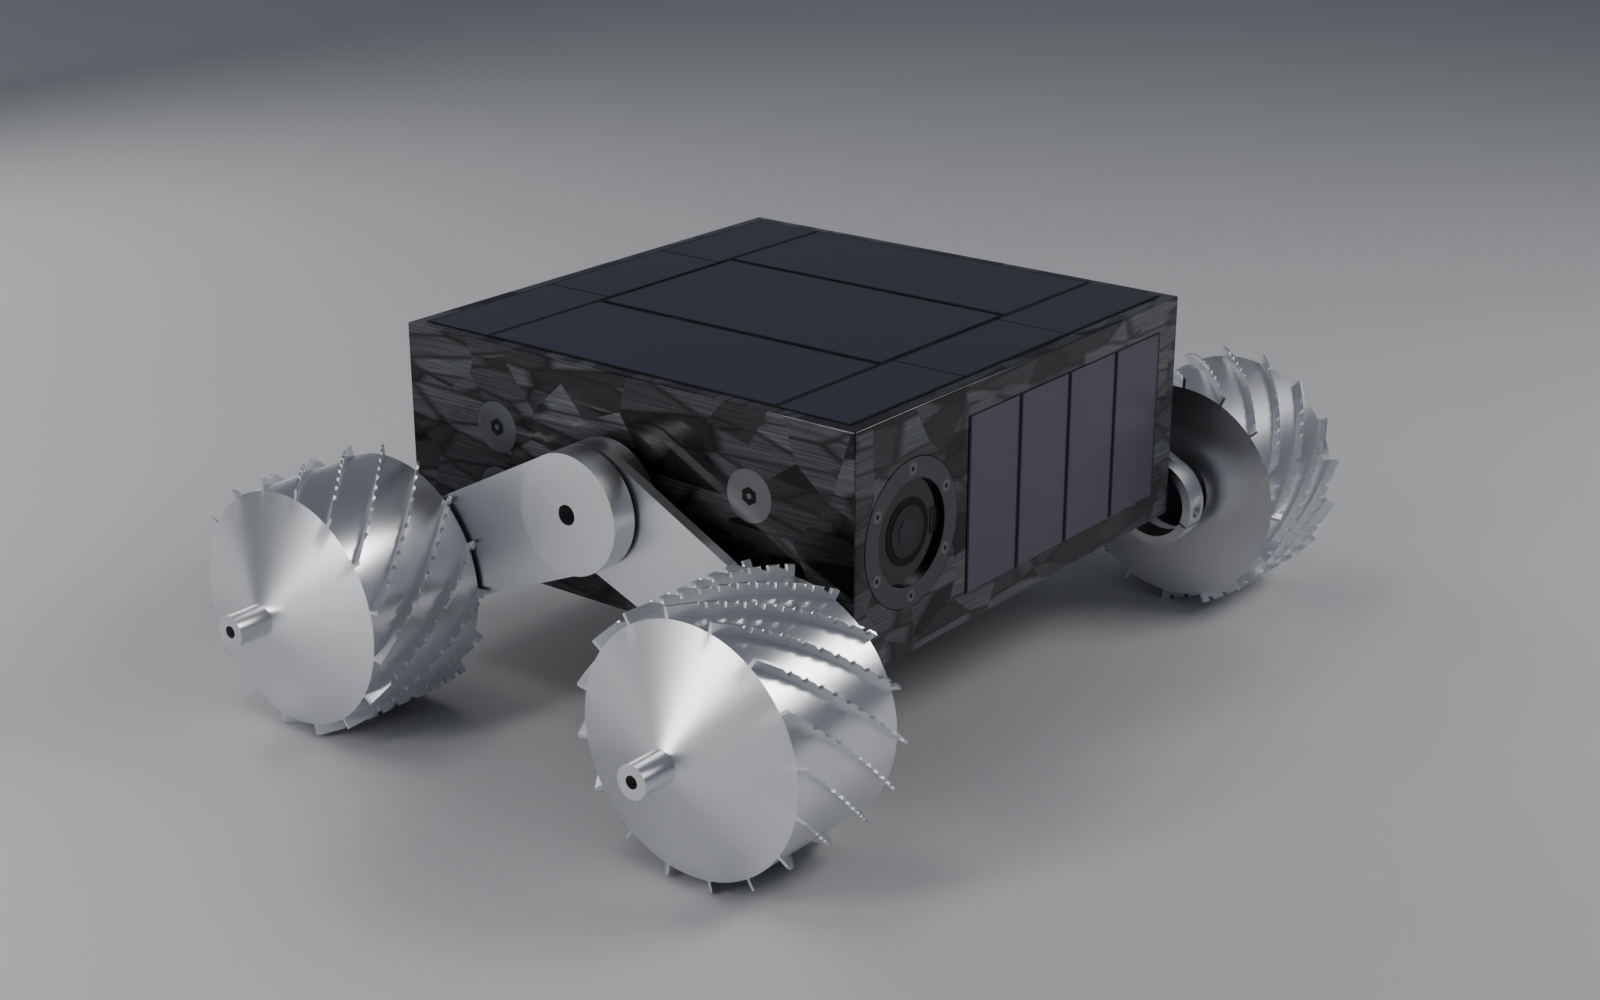
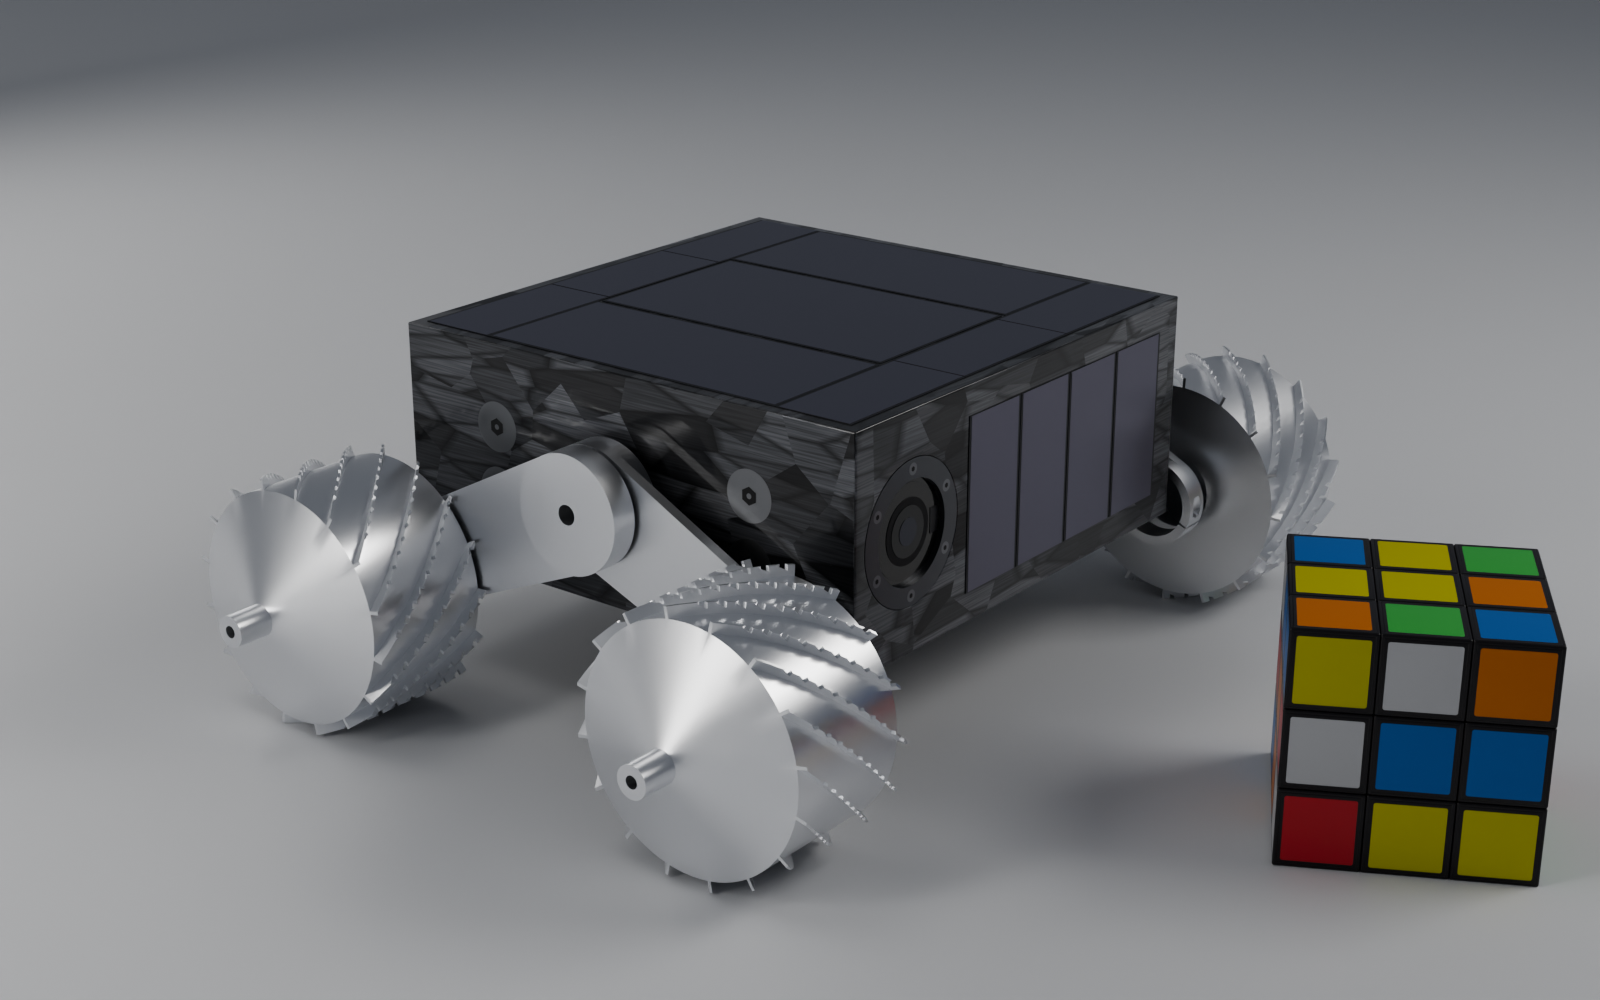
Renders R1, R2 (automatic, METAL ['Apple M2 (GPU - 10 cores)'])

Changed region(s): [[0.625, 0.527, 1.0, 0.899], [0.5, 0.682, 0.5625, 0.775]]

diff --git a/docs/render-jobs.md b/docs/render-jobs.md
@@ -28,8 +28,8 @@ When a change to the CAD, the layout, the materials or the camera alters what a 
 
 | Id | Image (`docs/images/`) | Settings | Expected | Why (last change) | Status | Notes |
 |---|---|---|---|---|---|---|
-| R1 | `rover-hero.png` | `VIEW=hero FIDUCIAL=cube QX=-5 QY=170`, 1600x1000, 96 samples | camera end three-quarter view: carbon body, near-black cells, aluminium struts and wheels, the 26 mm window with the lens visible; the CC BY Rubik's cube model (BeyondDigital, 57 mm) on the ground at the right, fully in frame, clear of the wheels | a scale fiducial: the CC BY Rubik's cube model added next to the rover (owner 2026-11-14; a quarter and then a home-made cube were tried first); was: the ranging sensor moved to the ring's inboard slot on the camera axis (z = 30, long axis vertical, 10.5 mm toward the body centre) and the LEDs to 45, 90, 135, 225, 270, 315 degrees (owner 2026-11-14: symmetry about z = 30); the sensor patch is now beside the lens, none below it; was: the ranging sensor moved from the ring's top slot to its bottom slot (2026-11-14, map work: the sim's pit check needs the 51.6 mm mount); the sensor patch is now BELOW the lens; was: the eight lid cam heads are now on the hub faces (2026-11-14); was: the window bezel is now gunmetal by default, the chosen finish (owner, 2026-11-14): the main shot: re-render so the hero shows the gunmetal bezel; was: a bare aluminium window bezel flush with the carbon face and six flush countersunk M1.6 screws, the sapphire recessed behind it (2026-11-14, owner's taste; the window view should show a flat ring with six small hex-socket heads and a visible depth to the window), six mid-power LEDs at 10 mm radius, sensor package behind clear glass; was: window redesigned 2026-11-14 (LED ring, lens, sensor; no beamsplitter); LEDs no longer drawn when off | pending (cube model in place) | automatic (render_pending.py): METAL ['Apple M2 (GPU - 10 cores)'], 44 s, 96 samples; pixel check ok (mean 127) | AttributeError: 'Scene' object has no attribute 'vs' | Traceback (most recent call last): | KeyError: 'bpy_prop_collection[key]: key "Thin Film Thickness" not found' | AttributeError: 'Scene' object has no attribute 'vs' | Traceback (most recent call last): | KeyError: 'bpy_prop_collection[key]: key "Thin Film Thickness" not found' |
-| R2 | `rover-rear.png` | `VIEW=rear FIDUCIAL=cube QX=5 QY=-170`, 1600x1000, 96 | the comms end: the square RF window plug; the CC BY Rubik's cube model (BeyondDigital, 57 mm) on the ground at the right, fully in frame, clear of the wheels | a scale fiducial: a Rubik's cube added next to the rover (owner 2026-11-14), the mirror position of R1; was: the window bezel is now gunmetal by default, the chosen finish (owner, 2026-11-14): the main shot of the other end (the comms end has no bezel, and a metal ring near the patch would detune it, so it stays a plain flush plug); re-render so the set matches the final lighting and finish; was: unchanged since 2026-11-13; re-render only to refresh | pending (cube model in place) | M2 Metal GPU: 36 s. |
+| R1 | `rover-hero.png` | `VIEW=hero FIDUCIAL=cube QX=-5 QY=170`, 1600x1000, 96 samples | camera end three-quarter view: carbon body, near-black cells, aluminium struts and wheels, the 26 mm window with the lens visible; the CC BY Rubik's cube model (BeyondDigital, 57 mm) on the ground at the right, fully in frame, clear of the wheels | a scale fiducial: the CC BY Rubik's cube model added next to the rover (owner 2026-11-14; a quarter and then a home-made cube were tried first); was: the ranging sensor moved to the ring's inboard slot on the camera axis (z = 30, long axis vertical, 10.5 mm toward the body centre) and the LEDs to 45, 90, 135, 225, 270, 315 degrees (owner 2026-11-14: symmetry about z = 30); the sensor patch is now beside the lens, none below it; was: the ranging sensor moved from the ring's top slot to its bottom slot (2026-11-14, map work: the sim's pit check needs the 51.6 mm mount); the sensor patch is now BELOW the lens; was: the eight lid cam heads are now on the hub faces (2026-11-14); was: the window bezel is now gunmetal by default, the chosen finish (owner, 2026-11-14): the main shot: re-render so the hero shows the gunmetal bezel; was: a bare aluminium window bezel flush with the carbon face and six flush countersunk M1.6 screws, the sapphire recessed behind it (2026-11-14, owner's taste; the window view should show a flat ring with six small hex-socket heads and a visible depth to the window), six mid-power LEDs at 10 mm radius, sensor package behind clear glass; was: window redesigned 2026-11-14 (LED ring, lens, sensor; no beamsplitter); LEDs no longer drawn when off | done 2026-11-14 | automatic (render_pending.py): METAL ['Apple M2 (GPU - 10 cores)'], 138 s, 96 samples; pixel check ok (mean 120) | AttributeError: 'Scene' object has no attribute 'vs' | Traceback (most recent call last): | KeyError: 'bpy_prop_collection[key]: key "Thin Film Thickness" not found' | AttributeError: 'Scene' object has no attribute 'vs' | Traceback (most recent call last): | KeyError: 'bpy_prop_collection[key]: key "Thin Film Thickness" not found' |
+| R2 | `rover-rear.png` | `VIEW=rear FIDUCIAL=cube QX=5 QY=-170`, 1600x1000, 96 | the comms end: the square RF window plug; the CC BY Rubik's cube model (BeyondDigital, 57 mm) on the ground at the right, fully in frame, clear of the wheels | a scale fiducial: a Rubik's cube added next to the rover (owner 2026-11-14), the mirror position of R1; was: the window bezel is now gunmetal by default, the chosen finish (owner, 2026-11-14): the main shot of the other end (the comms end has no bezel, and a metal ring near the patch would detune it, so it stays a plain flush plug); re-render so the set matches the final lighting and finish; was: unchanged since 2026-11-13; re-render only to refresh | done 2026-11-14 | automatic (render_pending.py): METAL ['Apple M2 (GPU - 10 cores)'], 94 s, 96 samples; pixel check ok (mean 116) |
 | R3 | `rover-top.png` | `VIEW=top`, 1600x1000, 96 | top lid cells, camera end up | the window bezel is now gunmetal by default, the chosen finish (owner, 2026-11-14): keep the set consistent; was: unchanged since 2026-11-13 | done 2026-11-14 | M2 Metal GPU: 46 s. |
 | R4 | `rover-detail.png` | `VIEW=detail`, 1500x940, 96 | the camera-end corner: the window with lens, hood, dead-front ring (no visible LED outlines now), sensor patch above the lens, four end-face cells | the ranging sensor moved to the ring's inboard slot on the camera axis (z = 30, long axis vertical, 10.5 mm toward the body centre) and the LEDs to 45, 90, 135, 225, 270, 315 degrees (owner 2026-11-14: symmetry about z = 30); the sensor patch is now beside the lens, none below it; was: the ranging sensor moved from the ring's top slot to its bottom slot (2026-11-14, map work: the sim's pit check needs the 51.6 mm mount); the sensor patch is now BELOW the lens; was: the window bezel is now gunmetal by default, the chosen finish (owner, 2026-11-14): the corner shot shows the bezel; was: a bare aluminium window bezel flush with the carbon face and six flush countersunk M1.6 screws, the sapphire recessed behind it (2026-11-14, owner's taste; the window view should show a flat ring with six small hex-socket heads and a visible depth to the window), six mid-power LEDs at 10 mm radius, sensor package behind clear glass; was: LED outlines removed (they showed as raised discs) | done 2026-11-14 | automatic (render_pending.py): METAL ['Apple M2 (GPU - 10 cores)'], 62 s, 96 samples; pixel check ok (mean 61) |
 | R5 | `rover-cells.png` | `VIEW=cells`, 1500x940, 96 | raking close-up of the top-lid cells | the window bezel is now gunmetal by default, the chosen finish (owner, 2026-11-14): keep the set consistent; was: unchanged since 2026-11-13 | done 2026-11-14 | M2 Metal GPU: 28 s. |
